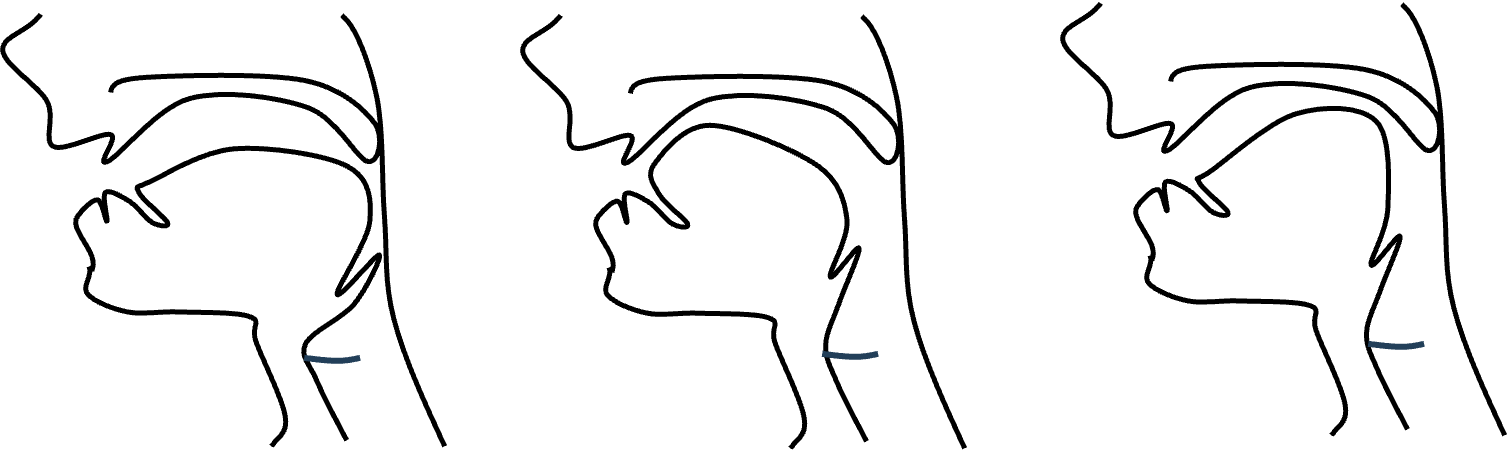
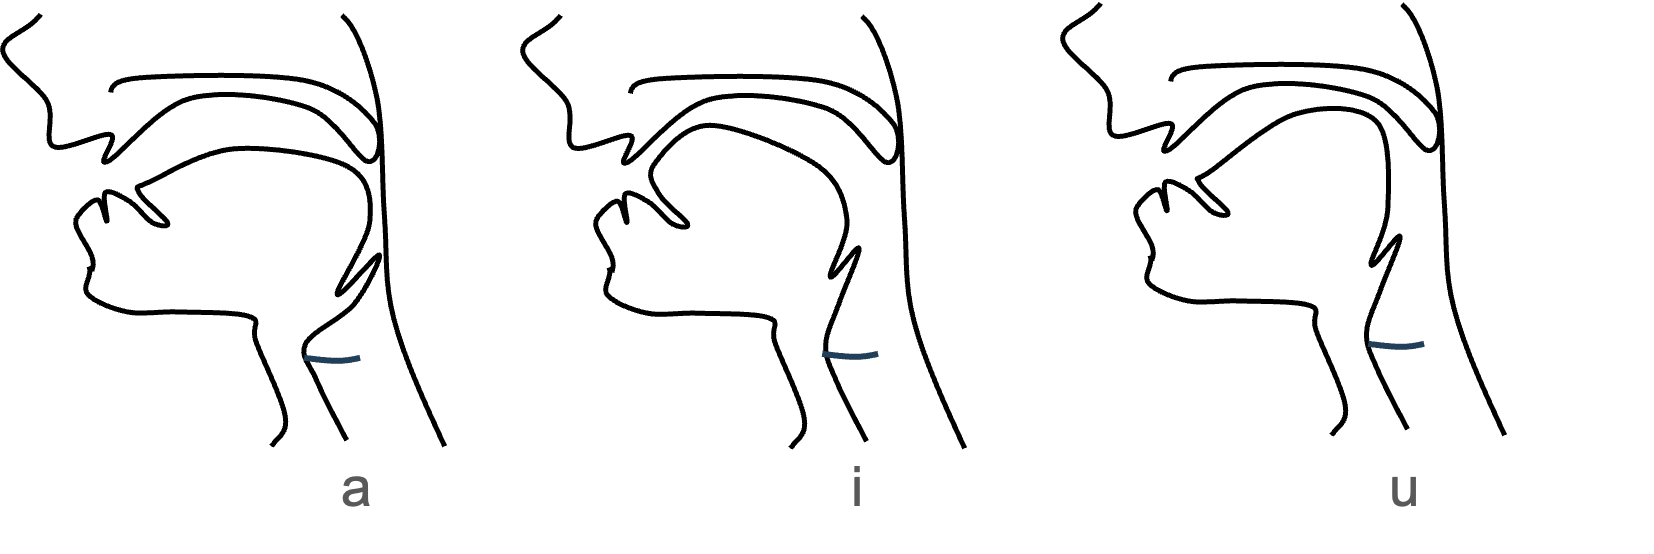
edit files

diff --git a/teaching.html b/teaching.html
@@ -47,20 +47,24 @@
               <p class="subtitle"><b>Courses</b></p>
 <p class="subsubtitle">  CSD 303: Speech Acoustics and Perception </p>
 <p class="subsubsubtitle">  Intro:  </p>
-          <div style="display:flex; justify-content:center; align-items:center; gap:1rem; flex-wrap:wrap;">
+          <div class="trailer-row">
             <span class="alert" style="margin:0;">[trailer: listen!]</span>
-            <audio id="trailerAudio" controls preload="auto">
-              <source src="./sounds/trailer.wav" type="audio/wav">
-              Your browser does not support the audio element.
-            </audio>
+            <div class="trailer-slot">
+              <button class="trailer-btn" type="button" aria-label="Play trailer"><svg width="12" height="9" viewBox="0 0 12 9" xmlns="http://www.w3.org/2000/svg"><polygon points="2,0.5 11,4.5 2,8.5" fill="#FFFFFF"/></svg></button>
+              <div class="aiu-bar" style="display:block; width:min(180px, 42vw);"><div class="aiu-fill"></div></div>
+              <audio id="trailerAudio" preload="auto">
+                <source src="./sounds/trailer.wav" type="audio/wav">
+                Your browser does not support the audio element.
+              </audio>
+            </div>
           </div>
 
           <!-- Yubin's vocal tract (cartoon) with Alvin Lucier comic to its left -->
 <!-- Yubin's vocal tract (cartoon) with Alvin Lucier comic to its left -->
 <p class="subsubsubtitle">  Resonance:  </p>
 <div class="reson-row" style="display:flex; justify-content:center; align-items:center; gap: 5.5rem; flex-wrap:nowrap;">
-  <img class="reson-img" src="./pics/alvin_lucier_comic.png" alt="Alvin Lucier is sitting in a room" style="max-height: 300px; height: auto; width: auto; max-width: 48%; margin: 0;" />
-  <img class="reson-img reson-yubin" src="./pics/vocal_tract_yubin.png" alt="Yubin is sitting in your vocal tract" style="max-height: 350px; height: auto; width: auto; max-width: 48%; margin: 0;" />
+  <img class="reson-img" src="./pics/alvin_lucier_comic.png" alt="Alvin Lucier is sitting in a room" style="max-height: 550px; height: auto; width: auto; max-width: 50%; margin: 0;" />
+  <img class="reson-img reson-yubin" src="./pics/vocal_tract_yubin.png" alt="Yubin is sitting in your vocal tract" style="max-height: 300px; height: auto; width: auto; max-width: 48%; margin: 0;" />
 </div>
           <p class="belowfigure">
             Alvin Lucier is sitting in a room
@@ -70,22 +74,27 @@
             but Yubin is sitting in your vocal tract.
             <br>What happens when Yubin's vocal tract listens to his recorded speech again, again and again?
           </p>
-          <!-- a i u vocal-tract shapes with the three audio players aligned beneath -->
-          <center><img src="./pics/vocal_tract_aiu.png" alt="a /i/ u vocal tract shapes" style="width: 85%;" /></center>
-          <div style="display:grid; grid-template-columns: repeat(3, 1fr); width:85%; margin:0.6rem auto 1rem auto; gap:0.8rem;">
-            <div style="text-align:center;">
-              <div style="font-family:'Times New Roman', Georgia, serif; font-size:1.15rem; color:#222; margin-bottom:0.2rem;">/a/</div>
-              <audio controls preload="none" src="./sounds/lucier_a.wav" style="width:100%; max-width:280px;"></audio>
+          <!-- a /i/ u vocal-tract shapes: labels baked into the picture; play buttons aligned under each label (YouTube-button size, semi-transparent) -->
+          <center>
+            <div class="aiu-wrap">
+              <img src="./pics/vocal_tract_aiu.png" alt="a /i/ u vocal tract shapes" style="width:100%;" />
+              <div class="aiu-slot" style="left:22%;">
+                <button class="aiu-btn" type="button" aria-label="Play /a/"><svg width="12" height="9" viewBox="0 0 12 9" xmlns="http://www.w3.org/2000/svg"><polygon points="2,0.5 11,4.5 2,8.5" fill="#FFFFFF"/></svg></button>
+                <div class="aiu-bar"><div class="aiu-fill"></div></div>
+                <audio class="aiu-audio" preload="none" src="./sounds/lucier_a.wav"></audio>
+              </div>
+              <div class="aiu-slot" style="left:52%;">
+                <button class="aiu-btn" type="button" aria-label="Play /i/"><svg width="12" height="9" viewBox="0 0 12 9" xmlns="http://www.w3.org/2000/svg"><polygon points="2,0.5 11,4.5 2,8.5" fill="#FFFFFF"/></svg></button>
+                <div class="aiu-bar"><div class="aiu-fill"></div></div>
+                <audio class="aiu-audio" preload="none" src="./sounds/lucier_i.wav"></audio>
+              </div>
+              <div class="aiu-slot" style="left:85%;">
+                <button class="aiu-btn" type="button" aria-label="Play /u/"><svg width="12" height="9" viewBox="0 0 12 9" xmlns="http://www.w3.org/2000/svg"><polygon points="2,0.5 11,4.5 2,8.5" fill="#FFFFFF"/></svg></button>
+                <div class="aiu-bar"><div class="aiu-fill"></div></div>
+                <audio class="aiu-audio" preload="none" src="./sounds/lucier_u.wav"></audio>
+              </div>
             </div>
-            <div style="text-align:center;">
-              <div style="font-family:'Times New Roman', Georgia, serif; font-size:1.15rem; color:#222; margin-bottom:0.2rem;">/i/</div>
-              <audio controls preload="none" src="./sounds/lucier_i.wav" style="width:100%; max-width:280px;"></audio>
-            </div>
-            <div style="text-align:center;">
-              <div style="font-family:'Times New Roman', Georgia, serif; font-size:1.15rem; color:#222; margin-bottom:0.2rem;">/u/</div>
-              <audio controls preload="none" src="./sounds/lucier_u.wav" style="width:100%; max-width:280px;"></audio>
-            </div>
-          </div>
+          </center>
 
       <p class="subsubtitle">  Ling 410: Speaker Identification </p>
           <p style="text-indent: 2em;">  Acoustic Analysis of Prosody: Linguistic and Forensic Applications  [<a href="./documents/acoustic_analysis_of_prosody_oct2.pdf">lecture</a>, <a href="./documents/voice_quality_assignment.pdf"> lab</a>, <a href="./documents/Gujarati.zip">audio</a>] </p>
@@ -104,8 +113,62 @@
 
   <script>
     window.addEventListener("DOMContentLoaded", () => {
-      const a = document.getElementById("trailerAudio");
-      if (a) a.volume = 0.5; // comfortable playback volume
+      // trailer audio: round transparent-red button + an always-visible minimal progress bar
+      const tSlot = document.querySelector(".trailer-slot");
+      if (tSlot) {
+        const tBtn   = tSlot.querySelector(".trailer-btn");
+        const tAudio = tSlot.querySelector("#trailerAudio");
+        const tBar   = tSlot.querySelector(".aiu-bar");
+        const tFill  = tSlot.querySelector(".aiu-fill");
+        if (tAudio) tAudio.volume = 0.5; // comfortable playback volume
+        tBtn.addEventListener("click", () => {
+          if (tAudio.paused) { tAudio.play().catch(() => {}); }
+          else { tAudio.pause(); }
+        });
+        tAudio.addEventListener("timeupdate", () => {
+          if (tAudio.duration) tFill.style.width = (100 * tAudio.currentTime / tAudio.duration) + "%";
+        });
+        tAudio.addEventListener("ended", () => { tFill.style.width = "0%"; });
+        tBar.addEventListener("click", (e) => {
+          const r = tBar.getBoundingClientRect();
+          const p = (e.clientX - r.left) / r.width;
+          if (tAudio.duration) tAudio.currentTime = p * tAudio.duration;
+        });
+      }
+
+      // a /i/ u players: a minimal custom progress bar to the right of the green button.
+      // It shows on hover or while playing, and hides again when paused and the mouse leaves.
+      document.querySelectorAll(".aiu-slot").forEach((slot) => {
+        const btn   = slot.querySelector(".aiu-btn");
+        const audio = slot.querySelector(".aiu-audio");
+        const bar   = slot.querySelector(".aiu-bar");
+        const fill  = slot.querySelector(".aiu-fill");
+
+        const show = () => { bar.style.display = "block"; };
+        const maybeHide = () => { if (audio.paused) bar.style.display = "none"; };
+
+        slot.addEventListener("mouseenter", show);
+        slot.addEventListener("mouseleave", maybeHide);
+
+        // green button plays / pauses
+        btn.addEventListener("click", () => {
+          if (audio.paused) { audio.play().catch(() => {}); show(); }
+          else { audio.pause(); }
+        });
+
+        // update the fill while playing
+        audio.addEventListener("timeupdate", () => {
+          if (audio.duration) fill.style.width = (100 * audio.currentTime / audio.duration) + "%";
+        });
+        audio.addEventListener("ended", () => { fill.style.width = "0%"; maybeHide(); });
+
+        // click on the bar to seek
+        bar.addEventListener("click", (e) => {
+          const r = bar.getBoundingClientRect();
+          const p = (e.clientX - r.left) / r.width;
+          if (audio.duration) audio.currentTime = p * audio.duration;
+        });
+      });
     });
   </script>
 

diff --git a/css/mycss.css b/css/mycss.css
@@ -212,7 +212,80 @@ hr.projects-hr {
 }
 
 audio {
-    max-width: 100%;
+  max-width: 100%;
+}
+
+/* a /i/ u minimal play button — same size as the YouTube button; progress bar hidden until clicked.
+   Buttons are absolutely positioned inside .aiu-wrap (same width as the picture) so they line up
+   with the a / i / u labels baked into the image. */
+.aiu-wrap { position: relative; width: 75%; margin: 0 auto 3rem; }
+.aiu-slot {
+  position: absolute;
+  top: 100%;
+  transform: translateX(-50%);
+  margin-top: 0;        /* buttons sit flush under the a / i / u labels */
+  text-align: center;
+}
+.aiu-btn {
+  display: inline-flex;
+  align-items: center;
+  justify-content: center;
+  width: 30px;             /* same size as the YouTube button */
+  height: 21px;
+  padding: 0;
+  border: none;
+  border-radius: 5px;
+  background: rgba(59, 127, 60, 0.5);   /* semi-transparent green so it blends with the page */
+  cursor: pointer;
+  box-shadow: 0 1px 3px rgba(0,0,0,0.25);
+  transition: background 0.2s ease;
+}
+.aiu-btn:hover { background: rgba(43, 79, 44, 0.72); }
+.aiu-audio { display: none; }            /* hidden native element — we draw our own minimal bar */
+.aiu-bar {
+  display: none;                         /* shown on hover or while playing */
+  position: absolute;
+  left: 100%;                            /* sits to the RIGHT of the green button */
+  top: 50%;
+  transform: translateY(-50%);
+  width: min(110px, 28vw);               /* same width for all three, minimal */
+  height: 4px;
+  background: rgba(0,0,0,0.15);          /* no box — just a thin track */
+  border-radius: 3px;
+  overflow: hidden;
+  cursor: pointer;
+  margin-left: 0.5rem;
+}
+.aiu-fill {
+  height: 100%;
+  width: 0%;
+  background: rgba(59,127,60,0.85);      /* same green, minimal */
+}
+/* trailer button: round, transparent light-red, paired with the always-visible minimal bar */
+.trailer-slot { position: relative; display: inline-flex; align-items: center; }
+.trailer-btn {
+  display: inline-flex;
+  align-items: center;
+  justify-content: center;
+  width: 34px;             /* round */
+  height: 34px;
+  padding: 0;
+  border: none;
+  border-radius: 50%;
+  background: rgba(200, 70, 70, 0.45);   /* transparent light red */
+  cursor: pointer;
+  box-shadow: 0 1px 3px rgba(0,0,0,0.2);
+  transition: background 0.2s ease;
+}
+.trailer-btn:hover { background: rgba(200, 70, 70, 0.68); }
+/* trailer row: on the web it sits left-aligned at 16% from the content edge */
+.trailer-row {
+  display: flex;
+  justify-content: flex-start;
+  align-items: center;
+  gap: 1rem;
+  flex-wrap: wrap;
+  margin-left: 13%;
 }
 
 .subsubtitle {
@@ -341,6 +414,9 @@ img.first_order { max-width: 60%; }
     /* Hide the desktop sidebar — phone shows only the right panel */
     .sidebar { display: none; }
 
+    /* Phone: trailer row just aligns left (no 16% offset) */
+    .trailer-row { margin-left: 0; }
+
     /* Top bar with menu button */
     .topbar {
         display: flex;
@@ -451,10 +527,10 @@ img.first_order { max-width: 60%; }
         max-width: 320px !important; 
         margin: 0 auto !important; 
     }
-    .reson-yubin { 
-        width: 38% !important; 
-        max-width: 180px !important; 
-        margin: 0 auto !important; 
+    .reson-yubin {
+        width: 34% !important;
+        max-width: 160px !important;
+        margin: 0 auto !important;
     }
 
     .video-container video { width: 160px; }

diff --git a/.workbuddy/memory/2026-09-27.md b/.workbuddy/memory/2026-09-27.md
@@ -1,0 +1,29 @@
+# 2026-09-27
+
+## teaching.html — CSD303 resonance / aiu audio section
+- Investigated white-background issue on vocal_tract_yubin.png & vocal_tract_aiu.png.
+  - Root cause: source images in `/Users/yubin/csd303/fall2026/slides/unit1/lecture05_week3_M_resonance.pptx`
+    (slide33 = Lucier slide) — embedded media image52/53/54.png are OPAQUE with baked-in white
+    background (0% transparent). Re-extracting won't help. alvin_lucier_comic.png is a real
+    alpha PNG (87% transparent) → no white box. Site bg is #fdfdfd (near-white) so box is barely visible.
+  - Fix (deferred, user didn't confirm): use Pillow to turn near-white pixels transparent.
+- User edited vocal_tract_aiu.png to bake in the /a/ /i/ /u/ text labels.
+- Simplified the three a/i/u audio players: removed the HTML text labels and the always-visible
+  progress bars. Each is now a play button that, on click, hides itself and reveals the native
+  <audio controls> (with progress bar) and auto-plays. JS added to existing DOMContentLoaded block.
+- Follow-up tweaks: buttons resized to the YouTube-button size (30x21 rounded rect with SVG triangle),
+  made semi-transparent green (rgba(59,127,60,0.5)) to blend with the page, and realigned by wrapping
+  the aiu picture in .aiu-wrap (75% width, position:relative) with .aiu-slot buttons absolutely
+  positioned at left:26% / 56% / 88% (label x-positions measured from the picture). Note: user
+  hand-edited mobile .reson-row gap to 2rem !important — respect that.
+- Mobile .reson-yubin shrunk slightly: 38%/180px -> 34%/160px (user asked "smaller slight").
+  Image width kept at 75%.
+- Replaced the boxed native <audio controls> (which sat to the right of each button but looked short
+  and boxed) with a custom minimal progress bar: a 4px thin track + green fill, no box, same width
+  (min(110px,28vw)) for all three, positioned to the RIGHT of the green button via .aiu-bar left:100%.
+  JS now drives fill on timeupdate, click-to-seek on the bar, and play/pause toggle on the button;
+  bar shows on hover or while playing, hides when paused and the mouse leaves.
+- Trailer audio (Intro section) got the same custom treatment but a ROUND, transparent light-red button
+  (.trailer-btn, 34px circle, rgba(200,70,70,0.45)) instead of the green one, and its minimal progress
+  bar is ALWAYS visible (no hover-hide): inline display:block on .aiu-bar + no hide logic in JS. User
+  explicitly asked "do not hide the progress bar, directly show it". Reused .aiu-bar/.aiu-fill markup.
